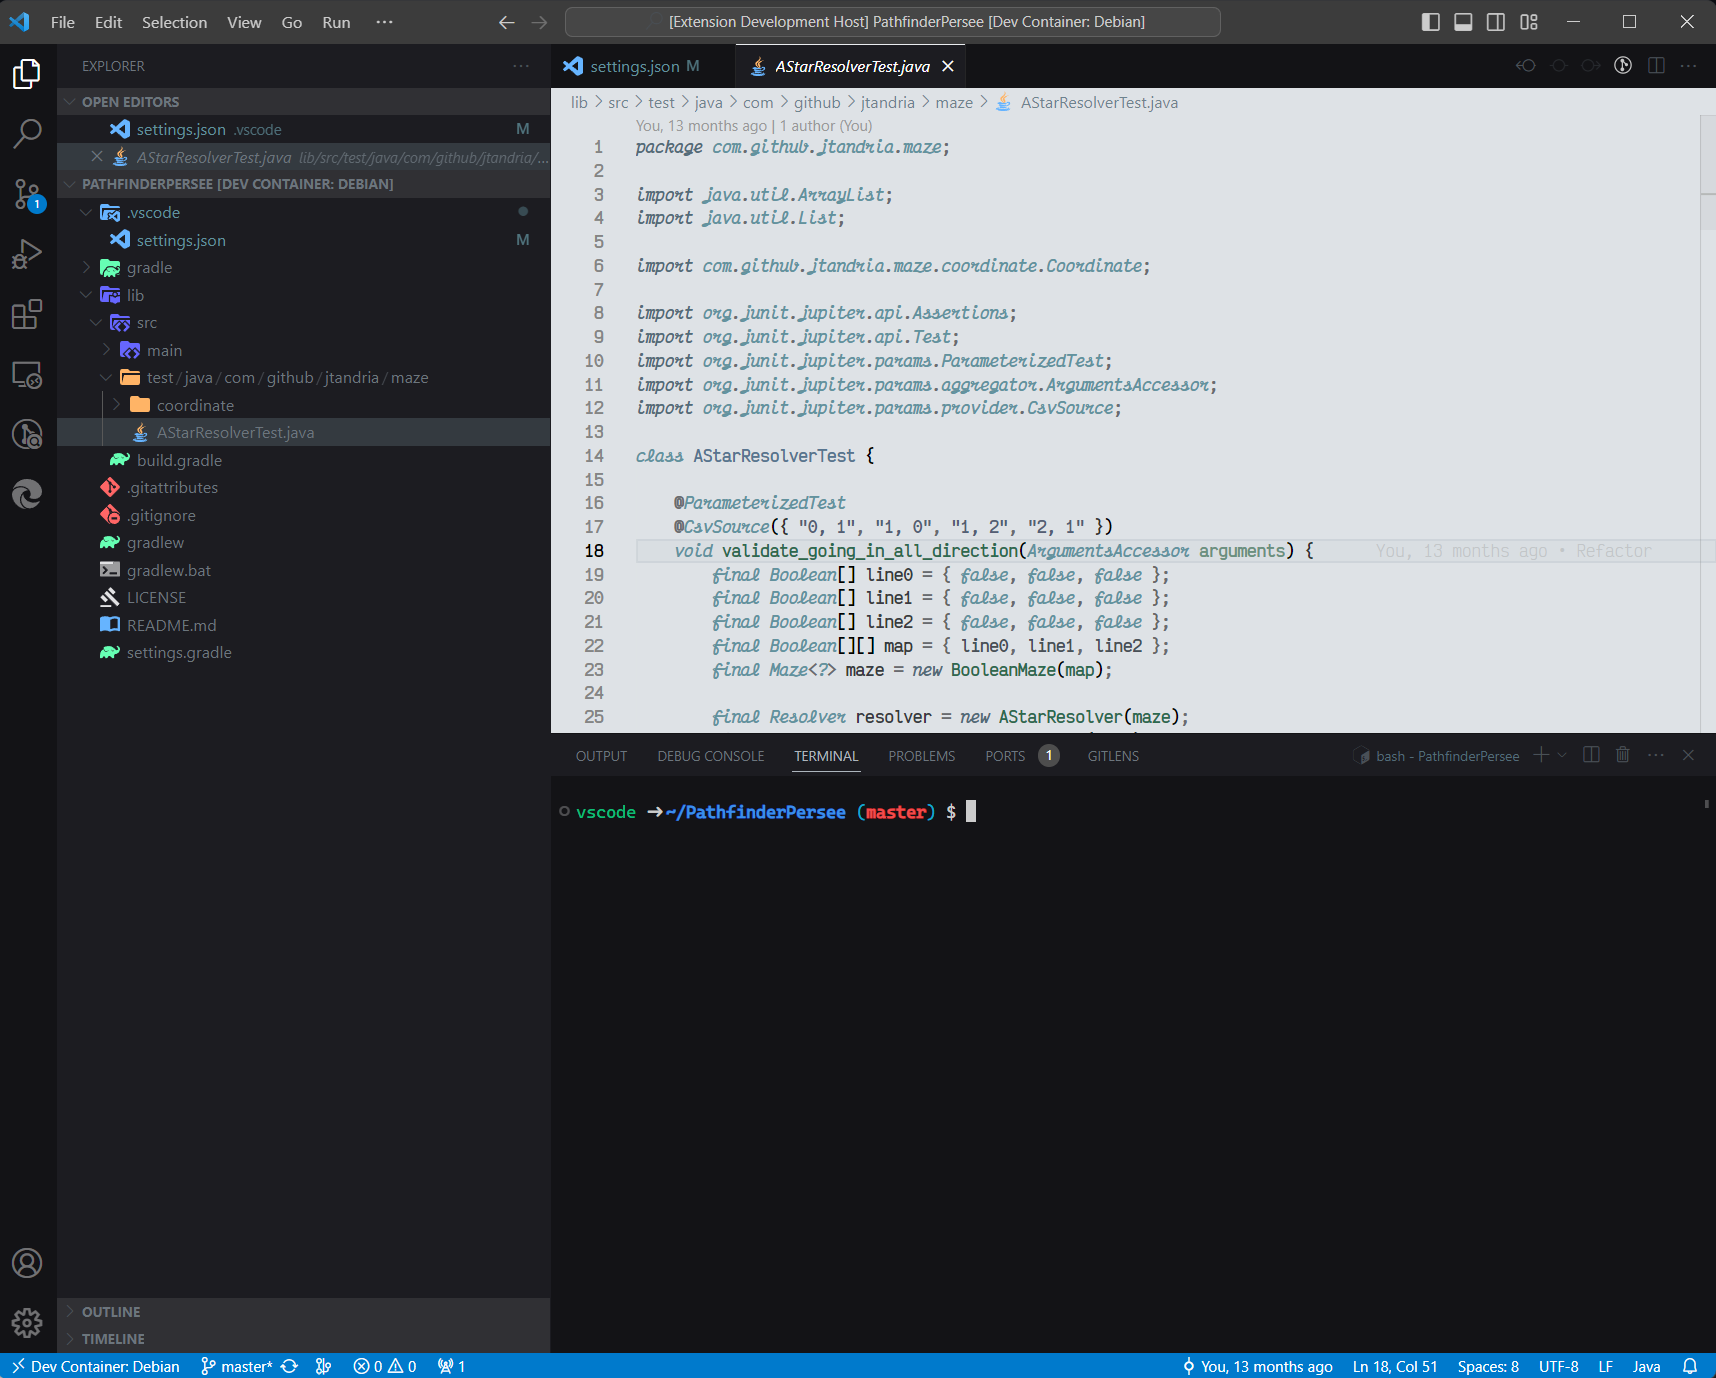
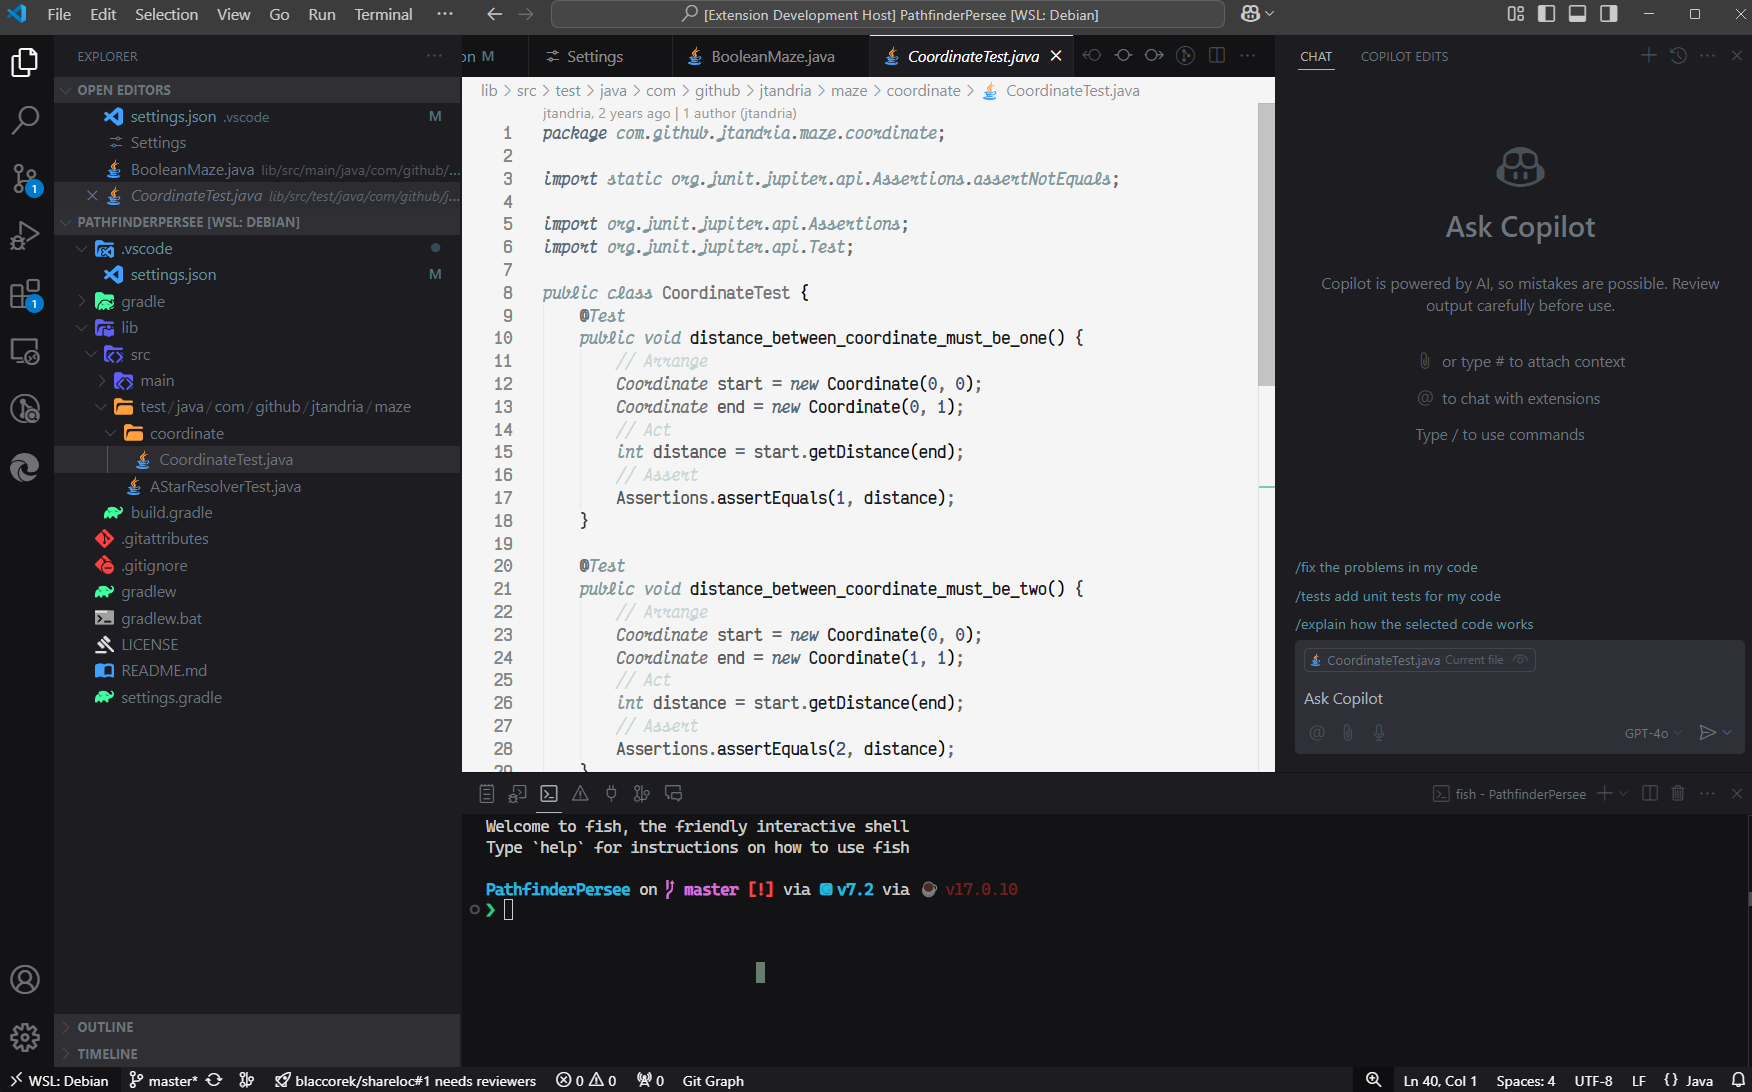
Better fit the theme name

diff --git a/CHANGELOG.md b/CHANGELOG.md
@@ -23,3 +23,7 @@ Check [Keep a Changelog](http://keepachangelog.com/) for recommendations on how 
 ## [0.0.4]
 - Improve gitlens blame visibility
 - Properly view dart closing component comments
+
+## [0.0.5]
+- Improve github colpilot contrast
+- Change colors to better fit name
